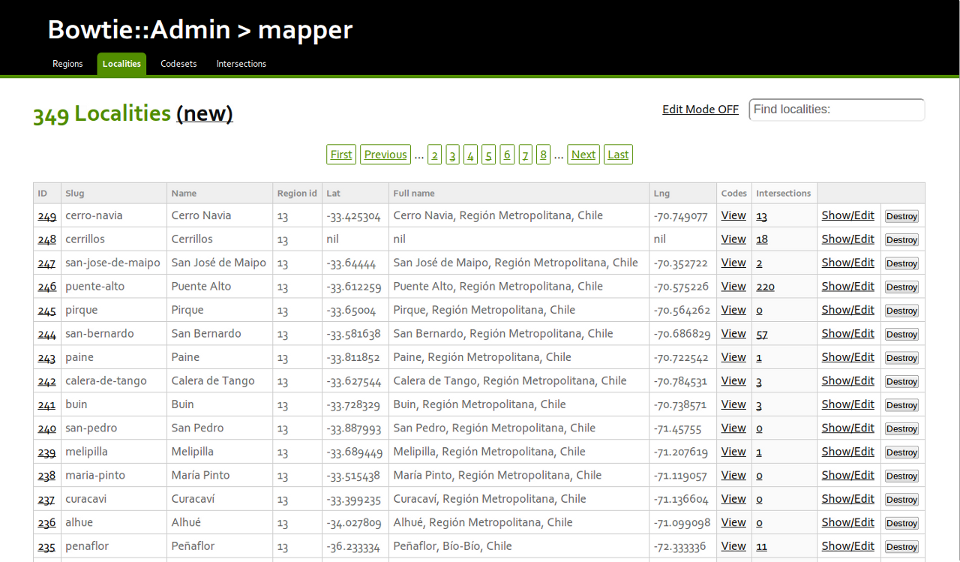
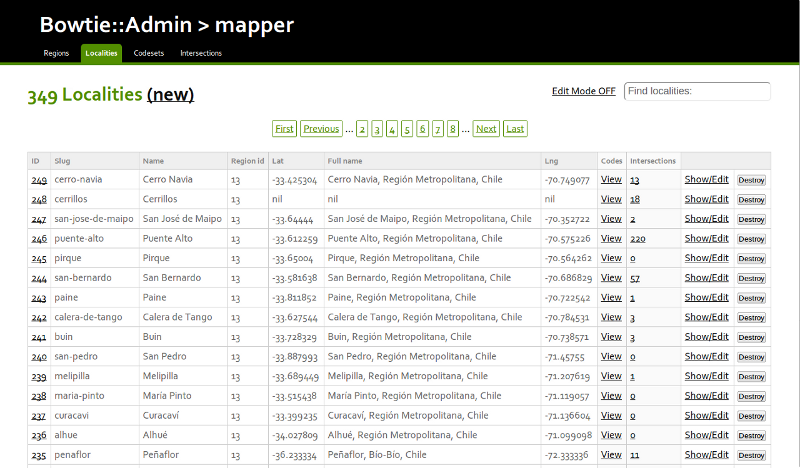
Updated readme. Smaller screenshot.

diff --git a/test/datamapper.rb b/test/datamapper.rb
@@ -4,7 +4,7 @@ require 'dm-validations'
 require 'dm-migrations'
 
 sqlite_db = "sqlite3://#{File.expand_path(File.dirname(__FILE__))}/db.sqlite3"
-DataMapper.setup(:default, sqlite_db) # for testing purposes, no need for additional gems
+DataMapper.setup(:default, sqlite_db)
 # DataMapper.setup(:default, "in_memory::") # for testing purposes, no need for additional gems
 
 class City
@@ -14,8 +14,7 @@ class City
 	has 1, :major
 
 	property :id, Serial
-	property :name, String
-
+	property :name, String, :required => true
 end
 
 class Major
@@ -25,7 +24,6 @@ class Major
 
 	property :id, Serial
 	property :name, String
-
 end
 
 class Place
@@ -41,24 +39,11 @@ class Place
 end
 
 class Restaurant < Place
-  # property :food_type, String, :required => true
+
 end
 
 class Cinema < Place
-  # property :number_of_movies, Integer  
+
 end
 
 DataMapper.auto_migrate!
-
-def add_places!(city)
-	# Place.delete_all
-	city.places << Cinema.create(:name => "Busterblock", :address => "234 Mission St")
-	city.places << Restaurant.create(:name => "Freddo's", :address => "123 Park Lane")
-end
-
-city = City.create(:name => "SF222O2222")
-major = Major.create(:name => "John Lennon X")
-city.major = major
-major.save
-
-add_places!(city)

diff --git a/test/mongomapper.rb b/test/mongomapper.rb
@@ -11,7 +11,6 @@ class City
 	one :major
 
 	key :name, String, :required => true
-
 end
 
 class Major
@@ -41,16 +40,3 @@ class Cinema < Place
   # property :number_of_movies, Integer  
 end
 
-def add_places!(city)
-	# Place.delete_all
-	city.places << Cinema.create(:name => "Busterblock", :address => "234 Mission St")
-	city.places << Restaurant.create(:name => "Freddo's", :address => "123 Park Lane")
-	city.save
-end
-
-city = City.create(:name => "SF222O2222")
-major = Major.create(:name => "John Lennon X")
-city.major = major
-major.save
-
-add_places!(city)

diff --git a/README.md b/README.md
@@ -1,12 +1,12 @@
-### Bowtie: Zeroconf admin scaffold for your MongoMapper & DataMapper models
+## Bowtie: Zeroconf admin scaffold for your MongoMapper & DataMapper models
 
 Bowtie reads the information on your models and creates a nice panel in which you can view, edit and destroy records easily.
 
-### How does it look?
+## How does it look?
 
 ![Bowtie!](https://github.com/tomas/bowtie/raw/master/screenshot.png)
 
-### Installation
+## Installation
 
 Include it in your Gemfile and update your bundle:
 
@@ -18,11 +18,11 @@ Or install it by hand:
 
     $ gem install bowtie
 
-### Configuration
+## Configuration
 
 Mount Bowtie wherever you want by editing your config.ru file, after loading your models. You can optionally include the admin/pass combination for the panel.
 
-    require 'my_models'
+    require 'my_app' # models are loaded
     require 'bowtie'
 
     BOWTIE_AUTH = {:user => 'admin', :pass => '12345' }
@@ -41,22 +41,28 @@ Mount Bowtie wherever you want by editing your config.ru file, after loading you
 
 Now you can go to /admin in your app's path and try out Bowtie using your user/pass combination. If not set, it defaults to admin/bowtie.
 
-### Important notes
+## Important notes
 
-Bowtie requires a few gems but they're not included in the gemspec to prevent forcing your from installing unneeded gems. Therefore you need to make sue that Bowtie will have the following gems to work with: 
+Bowtie requires a few gems but they're not included in the gemspec to prevent forcing your from installing unneeded gems. Therefore you need to make sure that Bowtie will have the following gems to work with: 
 
-For DataMapper models: dm-core, dm-types, dm-validations, dm-pager
+For DataMapper models: 
 
-For MongoMapper models: mongo_mapper
+ * dm-core
+ * dm-validations
+ * dm-aggregates
+ * dm-pager
+
+For MongoMapper models:
+ 
+ * mongo_mapper
 
 From version 0.3, Bowtie is meant to be used from DataMapper 1.0.0 on. For previous versions please install with -v=0.2.5.
 
-### TODO
+## TODO
 
  * Better handling of types (Text, JSON, IPAddress) in #show
  * Better handling of relationships in #show
 
-### Copyright
+## Copyright
 
-(c) 2010-2011 - Tomás Pollak for Fork Ltd.
-Released under the MIT license.
+(c) 2010-2011 - Tomás Pollak for Fork Ltd. Released under the MIT license.
